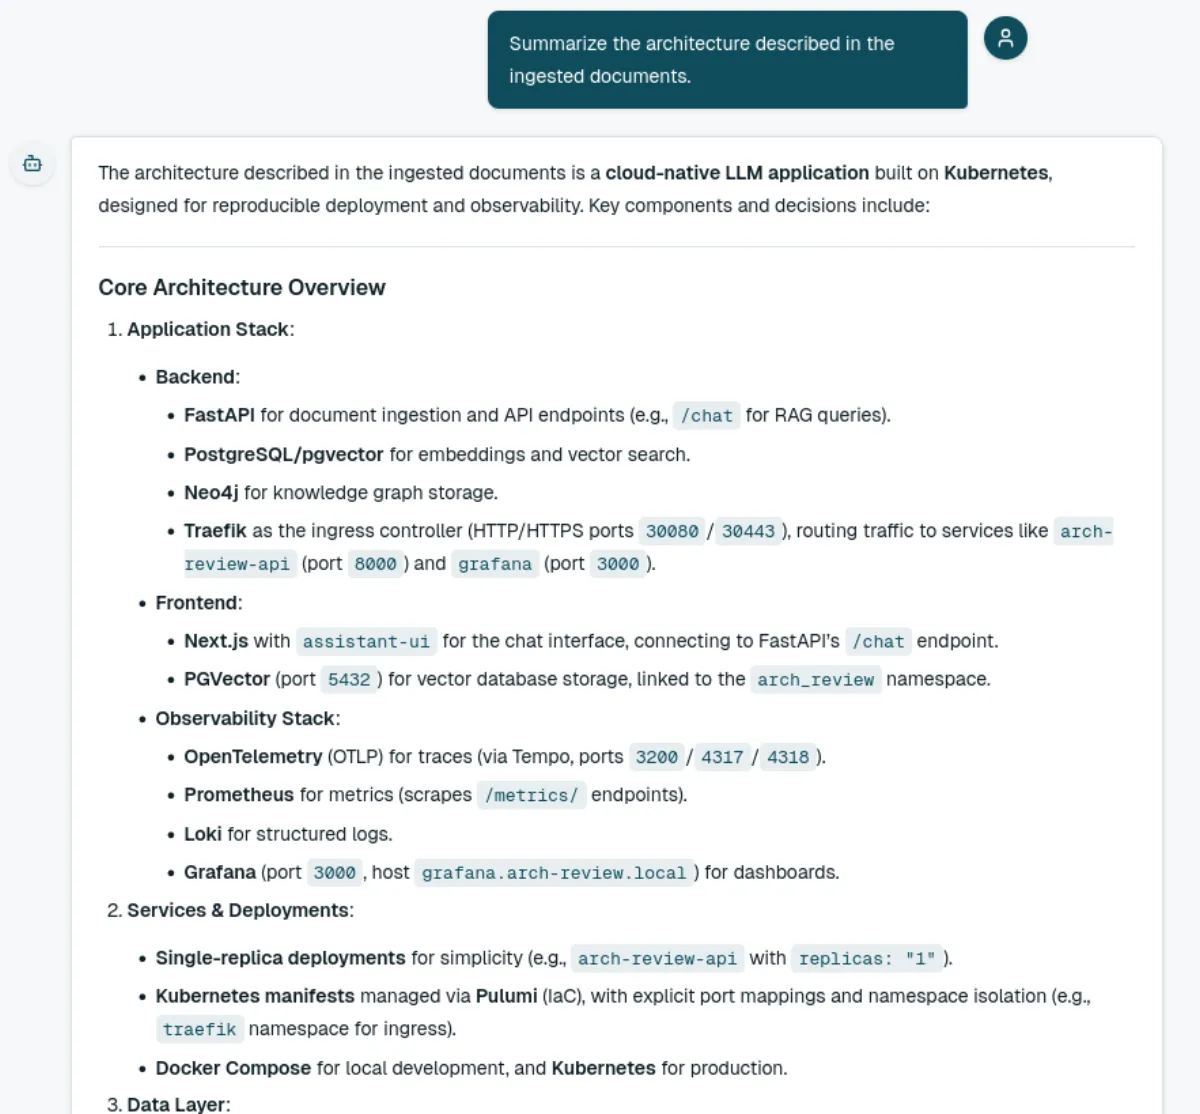
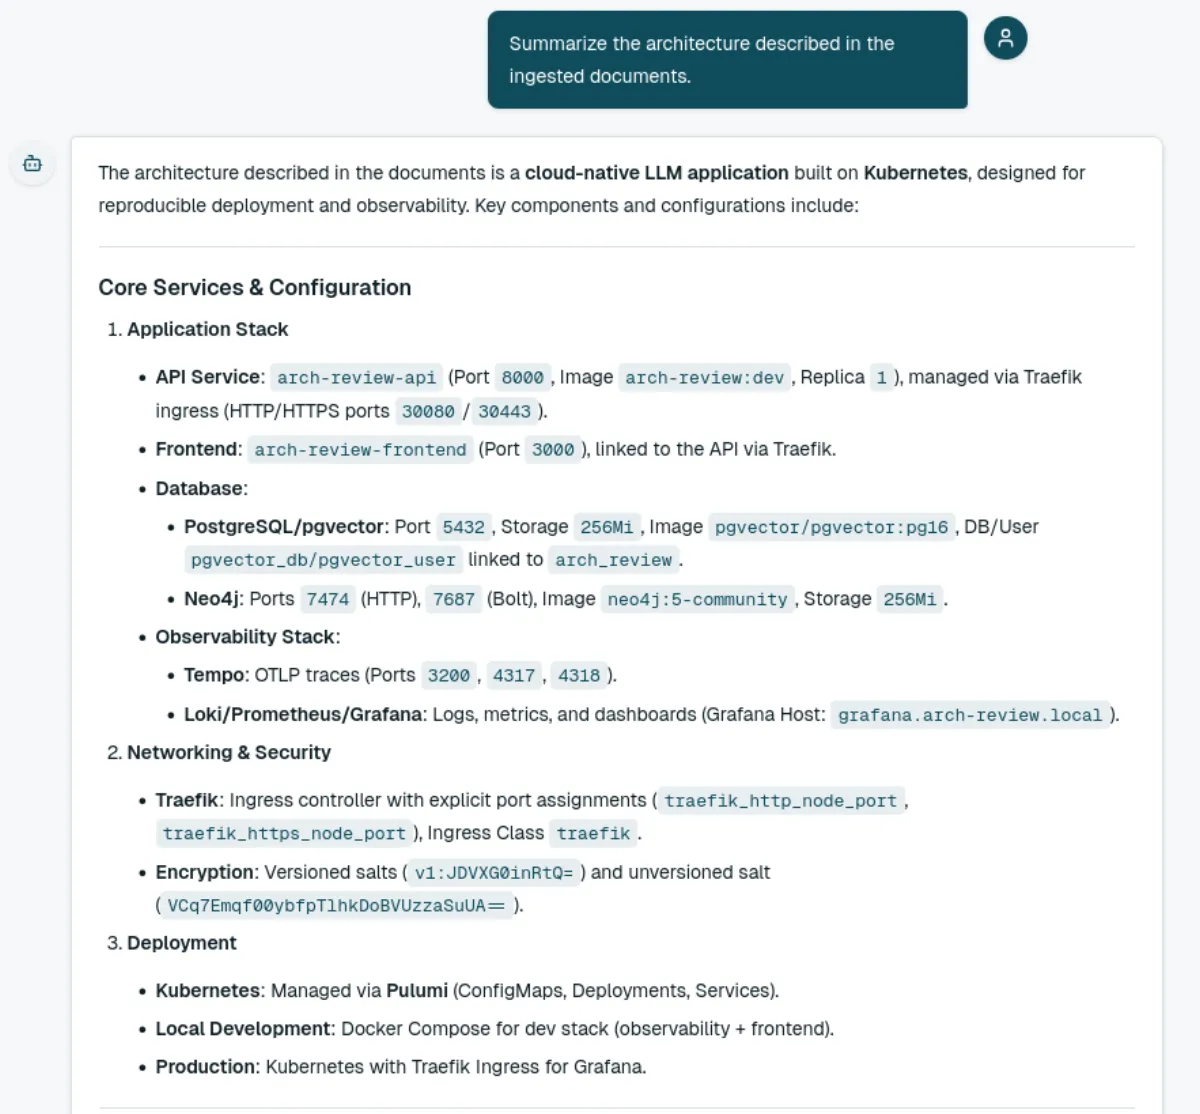
updated readme

Changed region(s): [[0.0925, 0.3052, 0.925, 1.0], [0.0925, 0.1526, 0.8942, 0.2136], [0.1233, 0.2442, 0.3392, 0.2747]]

diff --git a/README.md b/README.md
@@ -180,80 +180,53 @@ Summarize the architecture described in the ingested documents.
 Example answer:
 
 ```text
-The architecture described in the ingested documents is a cloud-native LLM application built on Kubernetes, designed for reproducible deployment and observability. Key components and decisions include:
-Core Architecture Overview
+The architecture described in the documents is a cloud-native LLM application built on Kubernetes, designed for reproducible deployment and observability. Key components and configurations include:
+Core Services & Configuration
 
-    Application Stack:
-        Backend:
-            FastAPI for document ingestion and API endpoints (e.g., /chat for RAG queries).
-            PostgreSQL/pgvector for embeddings and vector search.
-            Neo4j for knowledge graph storage.
-            Traefik as the ingress controller (HTTP/HTTPS ports 30080/30443), routing traffic to services like arch-review-api (port 8000) and grafana (port 3000).
-        Frontend:
-            Next.js with assistant-ui for the chat interface, connecting to FastAPI’s /chat endpoint.
-            PGVector (port 5432) for vector database storage, linked to the arch_review namespace.
+    Application Stack
+        API Service: arch-review-api (Port 8000, Image arch-review:dev, Replica 1), managed via Traefik ingress (HTTP/HTTPS ports 30080/30443).
+        Frontend: arch-review-frontend (Port 3000), linked to the API via Traefik.
+        Database:
+            PostgreSQL/pgvector: Port 5432, Storage 256Mi, Image pgvector/pgvector:pg16, DB/User pgvector_db/pgvector_user linked to arch_review.
+            Neo4j: Ports 7474 (HTTP), 7687 (Bolt), Image neo4j:5-community, Storage 256Mi.
         Observability Stack:
-            OpenTelemetry (OTLP) for traces (via Tempo, ports 3200/4317/4318).
-            Prometheus for metrics (scrapes /metrics/ endpoints).
-            Loki for structured logs.
-            Grafana (port 3000, host grafana.arch-review.local) for dashboards.
+            Tempo: OTLP traces (Ports 3200, 4317, 4318).
+            Loki/Prometheus/Grafana: Logs, metrics, and dashboards (Grafana Host: grafana.arch-review.local).
 
-    Services & Deployments:
-        Single-replica deployments for simplicity (e.g., arch-review-api with replicas: "1").
-        Kubernetes manifests managed via Pulumi (IaC), with explicit port mappings and namespace isolation (e.g., traefik namespace for ingress).
-        Docker Compose for local development, and Kubernetes for production.
+    Networking & Security
+        Traefik: Ingress controller with explicit port assignments (traefik_http_node_port, traefik_https_node_port), Ingress Class traefik.
+        Encryption: Versioned salts (v1:JDVXG0inRtQ=) and unversioned salt (VCq7Emqf00ybfpTlhkDoBVUzzaSuUA==).
 
-    Data Layer:
-        RAG Integration:
-            Documents are validated, split into chunks, embedded via PostgreSQL/pgvector, and mirrored to Neo4j for graph representation.
-            Query embeddings are generated for semantic search.
+    Deployment
+        Kubernetes: Managed via Pulumi (ConfigMaps, Deployments, Services).
+        Local Development: Docker Compose for dev stack (observability + frontend).
+        Production: Kubernetes with Traefik Ingress for Grafana.
 
-    Key Decisions:
-        Standardized ports (e.g., PostgreSQL on 5432, Traefik on 30080/30443) for compatibility.
-        Development tags (:dev) for non-production images.
-        Fixed storage (256Mi) for PGVector and Neo4j.
-        Shared arch_review reference for DB/user linkage.
+Technical Architecture
 
-Tech Stack & Tools
+    Document Ingestion: Markdown/Python files are validated, split into chunks, embedded via PostgreSQL/pgvector, and mirrored to Neo4j for knowledge graph storage.
+    RAG Integration: Semantic search via pgvector, with POST /chat endpoint for retrieval-augmented generation (RAG).
+    Observability:
+        Traces: OpenTelemetry (OTLP to Tempo) with custom spans.
+        Metrics: Prometheus scrapes /metrics/ endpoints.
+        Logs: Structured logging with trace/span correlation to Loki.
+    Testing & CI/CD: Integration tests for chat, HTTP contracts, and automated linting/migration checks.
 
-    Backend: FastAPI, PostgreSQL/pgvector, Neo4j, Prometheus, OpenTelemetry.
-    Frontend: Next.js, LocalRuntime, ChatModelAdapter.
-    Observability: Tempo (traces), Loki (logs), Prometheus (metrics), Grafana (dashboards).
-    Deployment: Pulumi (IaC), Traefik (ingress), Kubernetes, Docker Compose.
+Key Decisions
 
-Deployment Workflow
+    Single-replica deployments for simplicity.
+    Traefik as ingress controller with explicit port mappings.
+    Standardized ports (e.g., PostgreSQL 5432, Grafana 3000) for compatibility.
+    Development tags (:dev) for non-production.
+    Infrastructure-as-Code (Pulumi) for reproducible Kubernetes deployments.
 
-    Local: Docker Compose for dev (includes observability stack + Next.js).
-    Production: Kubernetes via Pulumi with Traefik ingress for Grafana (grafana.arch-review.local).
-    Endpoints:
-        UI: http://localhost:3000 (Next.js).
-        API: http://localhost:8000 (FastAPI).
+Code/Infrastructure References
 
-Code & Configuration References
+    Tools: FastAPI, Next.js, PostgreSQL/pgvector, Neo4j, OpenTelemetry, Prometheus, Loki, Tempo, Pulumi, Traefik.
+    Deployments: Docker Compose (local), Kubernetes (production).
+    Services: FastAPI, httpx, psycopg, embedding service, chunk repository.
 
-    YAML manifests for services, Traefik, and ingress rules.
-    Parameters like traefik_namespace, pgvector_storage_size, and arch_review associations.
-    Shared arch-review namespace for consistent configuration.
-
-Key Architectural Patterns
-
-    Domain-Driven Design (DDD): Separation of domain models, use cases, persistence, and HTTP routing.
-    Infrastructure-as-Code (IaC): Pulumi manages deployments (ConfigMaps, Deployments, Services).
-    Observability Integration: Full stack (traces, metrics, logs) for debugging and monitoring.
-
-Recent Enhancements
-
-    RAG Integration: POST /chat endpoint with semantic search via pgvector.
-    Frontend: Two-panel UI (sources/chat), standardized prompts, and camelCase response mapping.
-    Testing: CI/CD pipelines for pull request validation, linting, and Kubernetes verification.
-
-References:
-
-    Source 1: Pulumi.dev.yaml (encryption salts, service configs, Traefik/PGVector details).
-    Source 2: README.md (RAG system, observability stack, deployment workflow).
-    Source 3: README.md (DDD, RAG data layer, ingestion pipeline).
-    Source 4: README.md (initial platform setup, cloud-native workflow).
-    Source 6: README.md (testing, CI/CD, Kubernetes verification).
+Sources: Pulumi.dev.yaml (encryption, services, Traefik), README.md (RAG, observability, deployment workflows).
 
 Sources:
 
